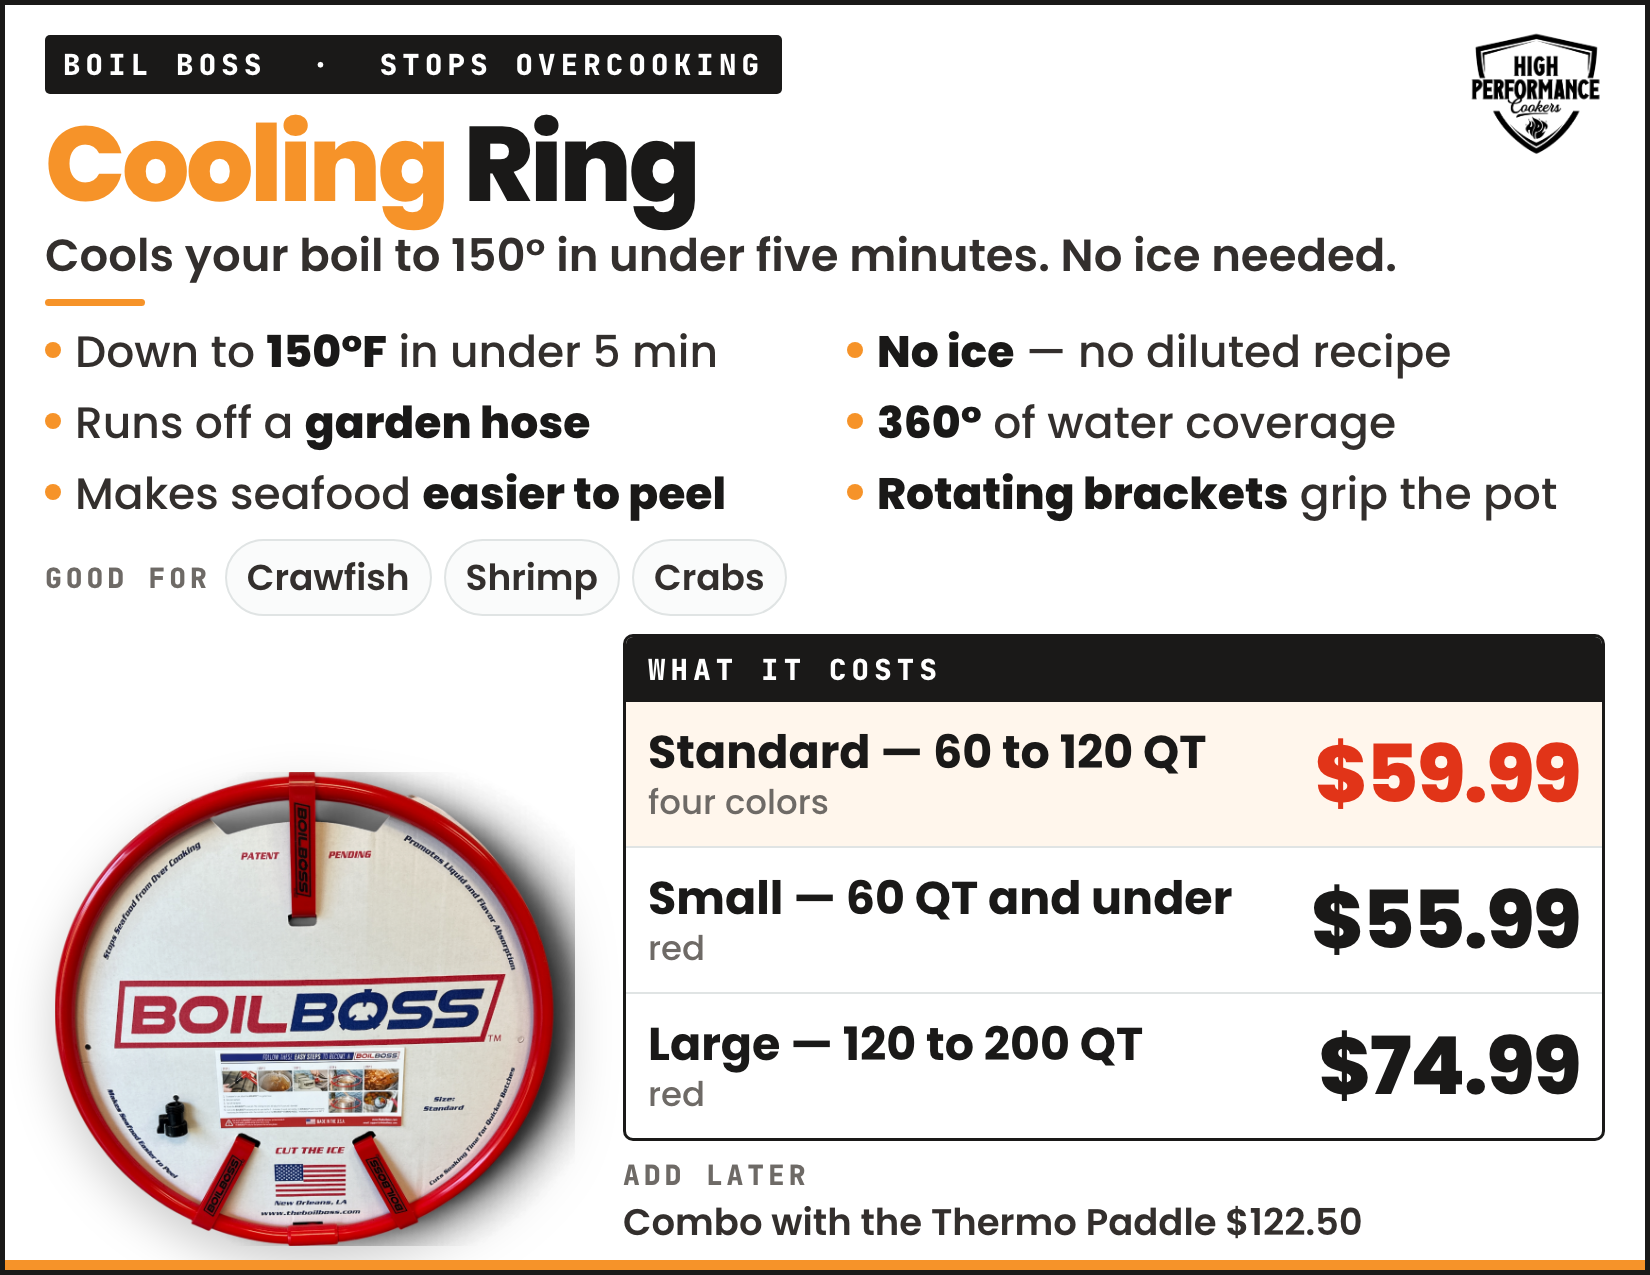
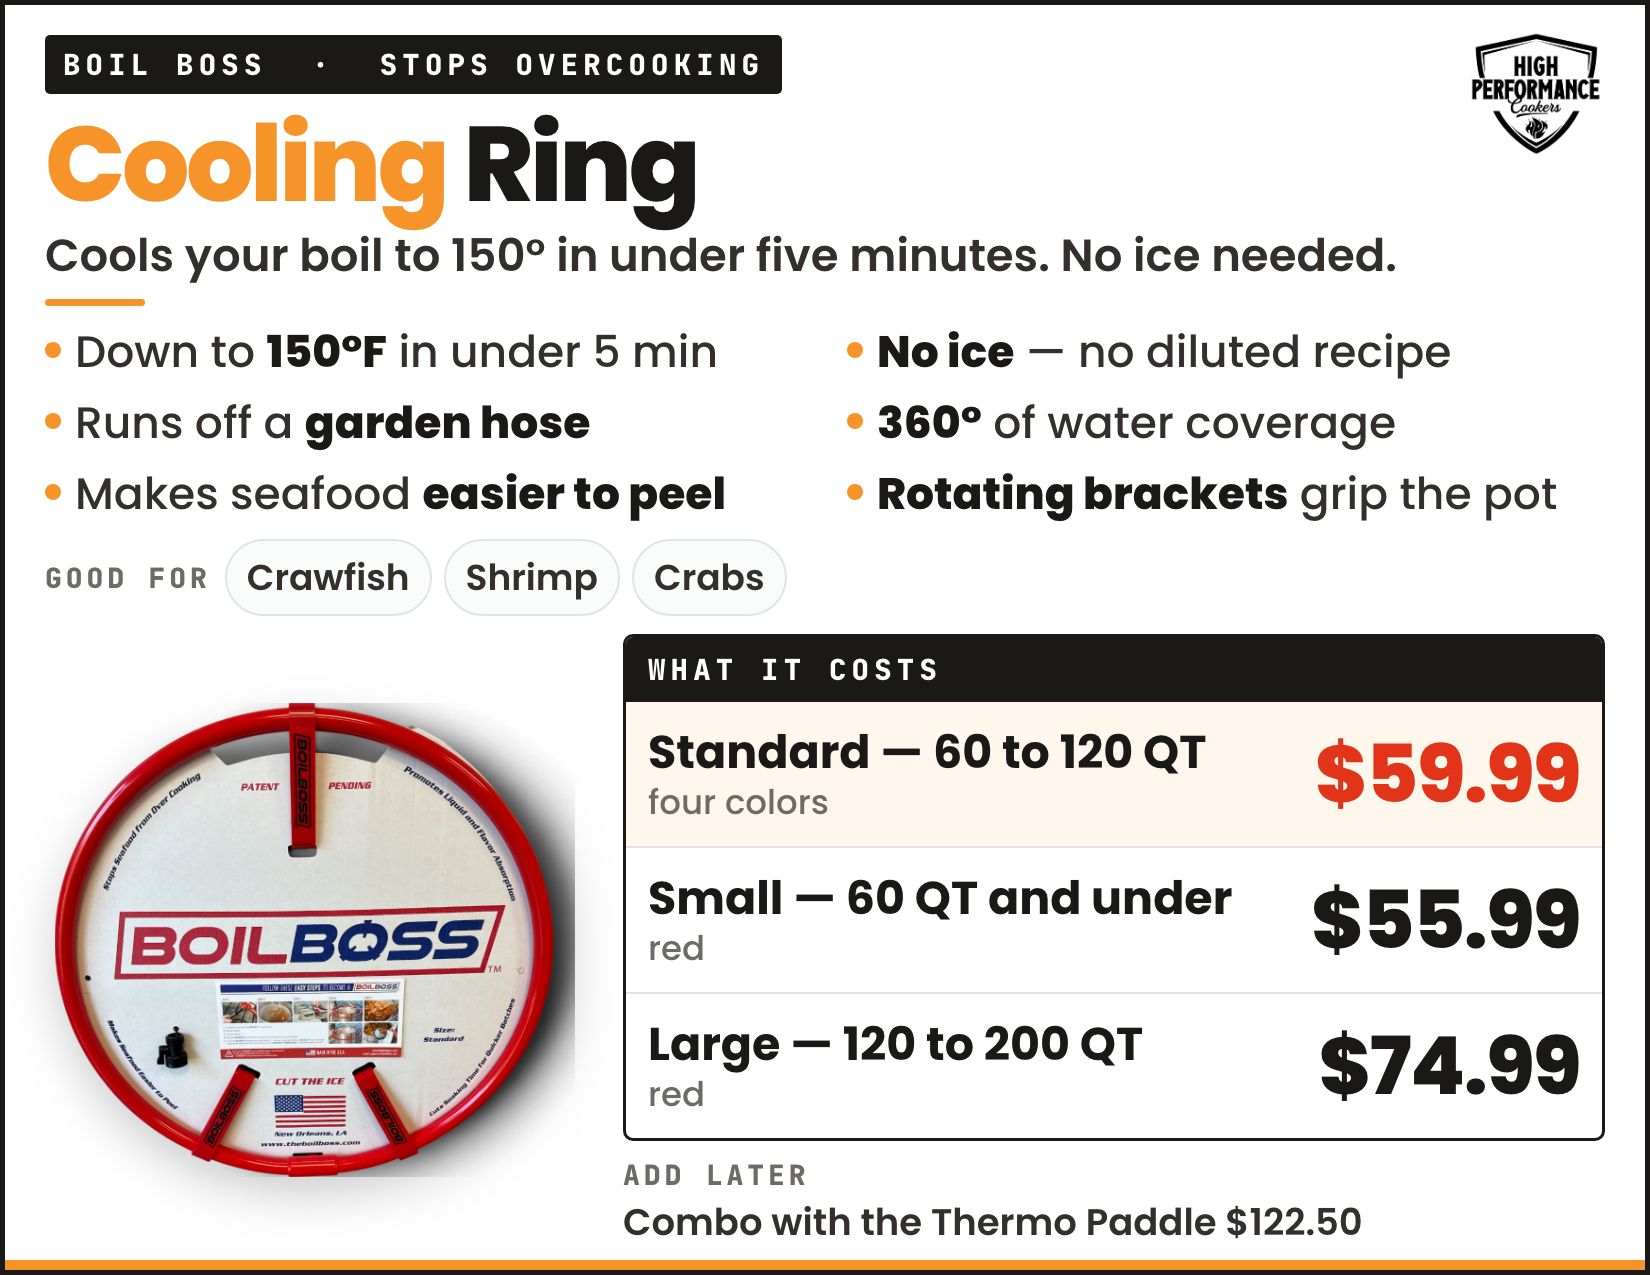
Showroom cards: centre the Cooling Ring in its band
The ring rendered 455px tall, just over the 430px auto-centre threshold,
so it bottom-aligned and sat 56px low with a band of air above it.
Forced with mid=True rather than moving the threshold, which would have
shifted other cards that are already approved.

Now dy +7 / -0 from the band centre.

Changed region(s): [[0.0309, 0.5506, 0.3709, 1.0]]

diff --git a/my-skills/hpc-ad-creative/work/creative/templates/showroom-cards/cooling-ring.html b/my-skills/hpc-ad-creative/work/creative/templates/showroom-cards/cooling-ring.html
@@ -31,7 +31,7 @@
   </div>
 
   <div class="bottom">
-    <div class="prodcol">
+    <div class="prodcol mid">
       <div class="pbox" style="width:520px;height:474px"><img src="../../../../assets/product-cutouts/boilboss cooling ring.png" style="width:714px;left:-108px;top:-239px"></div>
     </div>
 

diff --git a/my-skills/hpc-ad-creative/work/creative/templates/showroom-cards/make-cards.py b/my-skills/hpc-ad-creative/work/creative/templates/showroom-cards/make-cards.py
@@ -357,7 +357,7 @@ P = [
    add_label="Note", add="Fits 80, 100 and 120 QT Powered Cookers"),
 
  dict(key="cooling-ring", tag="BOIL BOSS &nbsp;·&nbsp; STOPS OVERCOOKING",
-   cut="boilboss cooling ring.png", h1=('Cooling', 'Ring'),
+   cut="boilboss cooling ring.png", h1=('Cooling', 'Ring'), mid=True,
    deck="Cools your boil to 150° in under five minutes. No ice needed.",
    src="Cooling Ring PDP (150F in under 5 min, garden hose, 360 coverage, rotating brackets)",
    feats=["Down to <b>150°F</b> in under 5 min", "<b>No ice</b> — no diluted recipe",
